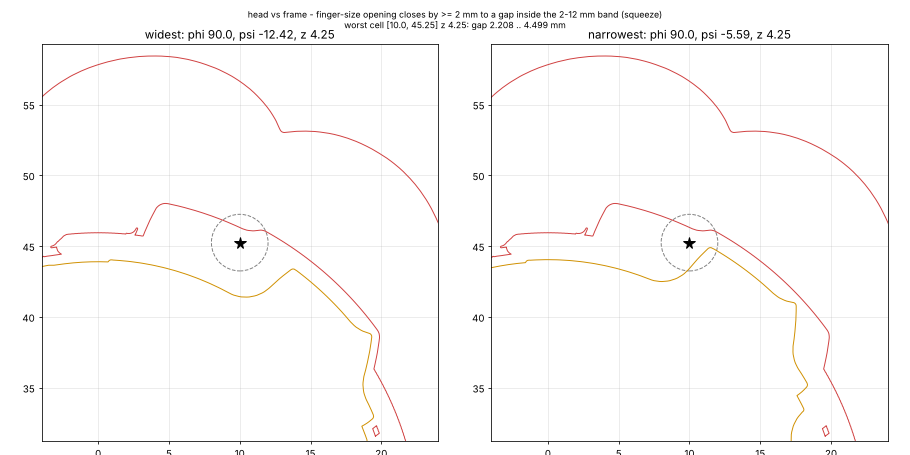
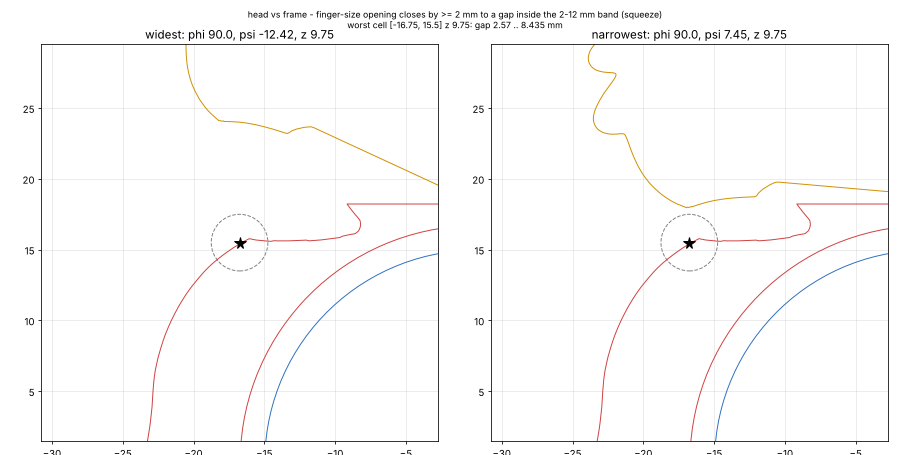
r7: back-rib web (fill-in arcs + spokes about P and O: every bridge strand of the head's and wheel's first layers crosses a rib within 5 mm), automatic bridging for every part of the sculpt kitty; checkers use the same helper; rib tops ignore hairlines (from the round-7 bridging agent's validated pr
Claude-Session: https://claude.ai/code/session_016pLnQT8v177AB1mgd4kLy3

diff --git a/fidget-toy/purrbobble/sculpt.py b/fidget-toy/purrbobble/sculpt.py
@@ -451,6 +451,84 @@ def seams(sk, p) -> dict:
             "pad_low_top": max(sk.pad_low_top, sk.leg_low_top + zl + gt + 0.05)}
 
 
+WHEEL_SPOKES = 12          # spokes about O under the wheel (strands over the teeth's first layer: <= 4.7 mm per run)
+
+
+def back_ribs2d(p, S, band2d: CrossSection, low2d_cav: CrossSection, spokes: bool = True) -> CrossSection:
+    """The frame's back ribs as built (z_bp .. z_bp + rib_h; design frame; the checkers call this too).  Ribs_back2d
+    is clipped to the low cavity shrunk 0.3 and what the clip leaves narrower than 0.9 rib_w is dropped.  The head
+    band's underside floats over the rib tops at the print pose and must lie within the float reach (pitch - rib_w)
+    / 2 of one everywhere (V9 rib float, <= 1.90): where the clip dropped an arc (the arc that runs along the cavity's
+    outer edge at the band's tip, r 19.5 about P, is cut to a 0.5 sliver there) or shortened one, fill-in arcs about
+    P are added at full width inside the clip, as core2d's (whose fill-in serves the classic band, not this one).
+    Radial spokes about P join the arcs into a web (spokes=True): the slicer prints the band's first layer as
+    straight bridge strands, one direction per region, and a straight strand runs tangent to the arcs somewhere
+    whatever its direction - 15-21 mm over no rib on this band, whose always-covered face part lies above P (the
+    classic band, legs and hub only, crossed the arcs at 180 deg).  The spokes, every `step` (the tangential pitch at
+    the band's farthest point <= the rib pitch: every other one from the hub ring, the rest from where the hub
+    ones' pitch passes the rib pitch), cut every strand to about the rib pitch (<= 5 mm) in any direction."""
+    P, O = tuple(p.P), (0.0, 0.0)
+    clip = g2.grow(low2d_cav, -0.3, 0.01)
+    rib2d = g2.drop_small(g2.opening(g2.intersect(S["ribs_back2d"], clip), 0.9 * p.rib_w, 0.005), 0.1)
+    # (fill-in arcs keep core2d's rib rules too: 0.3 inside the swept band, off the wheel's disc (its own rings
+    # there) and the posts' roots, 0.3 clear of the stop pads)
+    post_clear = g2.union([g2.circle(c, p.post_r + p.post_root_fillet + p.rib_post_clear, 0.01) for c in (O, P)])
+    fclip = g2.difference(g2.intersect(clip, g2.grow(S["swept_headband2d_exact"], -0.3, 0.01)),
+                          g2.circle(O, p.fill_wheel_r, 0.01), post_clear, g2.grow(S["stoppads2d"], 0.3, 0.01))
+    reach = (p.rib_back_pitch - p.rib_w) / 2.0 + 0.02     # 1.87, as core2d's (V9 allows 1.90)
+    under = g2.difference(g2.rot_about(band2d, p.psi_print, P), g2.circle(P, p.bore_r + 0.05, 0.01))
+    for _ in range(4):
+        unc = g2.drop_small(g2.opening(g2.difference(under, g2.grow(rib2d, reach, 0.005)), 0.05, 0.005), 0.005)
+        if unc.is_empty():
+            break
+        segs = []
+        for q in g2.pieces(unc):
+            pts = np.vstack([np.asarray(c, float) for c in q.to_polygons()])
+            r0 = float(np.mean(np.hypot(pts[:, 0] - P[0], pts[:, 1] - P[1])))
+            # (a local arc: the zone that part of the band sweeps, not a whole ring)
+            loc = swept(g2.grow(g2.rot_about(q, -p.psi_print, P), 1.5, 0.01), P, p.psi_b, p.n_sweep, allowance=0.0)
+            for dr in (0.0, -0.3, 0.3, -0.6, 0.6, -0.9, 0.9, -1.2, -1.5):
+                r = r0 + dr
+                seg = g2.intersect(g2.difference(g2.circle(P, r + p.rib_w / 2, g2.TOL_DECO),
+                                                 g2.circle(P, r - p.rib_w / 2, g2.TOL_DECO)), loc, fclip)
+                seg = g2.drop_small(g2.opening(seg, 0.95 * p.rib_w, 0.005), 0.3)     # full-width rib only
+                if not seg.is_empty() and g2.difference(q, g2.grow(seg, reach + 0.03, 0.01)).area() < 1e-3:
+                    segs.append(seg)
+                    break
+        if not segs:
+            break
+        # (closed 0.3 around the new arcs: one next to an existing arc leaves no hairline slit between them)
+        add = g2.union(segs)
+        rib2d = g2.union([rib2d, add, g2.intersect(g2.closing(g2.union([rib2d, add]), 0.3, 0.005),
+                                                   g2.grow(add, 0.6, 0.005), clip)])
+    if spokes:
+        pts = np.vstack([np.asarray(c, float) for c in band2d.to_polygons()])
+        r_max = float(np.hypot(pts[:, 0] - P[0], pts[:, 1] - P[1]).max())
+        n = 2 * int(math.ceil(math.pi * r_max / p.rib_back_pitch))          # (even: alternate hub / outer spokes)
+        step = 2.0 * math.pi / n
+        r_split = p.rib_back_pitch / (2.0 * step) - p.rib_w / 2.0
+        bars = []
+        for k in range(n):
+            u = np.array([math.cos(k * step), math.sin(k * step)])
+            w = np.array([-u[1], u[0]]) * (p.rib_w / 2.0)
+            a0 = np.asarray(P) + u * (p.rib_back_r0 if k % 2 == 0 else r_split)
+            a1 = np.asarray(P) + u * (r_max + 5.0)
+            bars.append(g2.poly([a0 - w, a1 - w, a1 + w, a0 + w]))
+        # (and under the wheel: WHEEL_SPOKES about O from the inner ring to the outer one, inside the rings' clip -
+        # the teeth's first layer otherwise runs up to 9.8 mm between the rings about O)
+        r_in, r_out = min(p.rib_rings_O), max(p.rib_rings_O)
+        for k in range(WHEEL_SPOKES):
+            t = 2.0 * math.pi * (k + 0.5) / WHEEL_SPOKES
+            u = np.array([math.cos(t), math.sin(t)])
+            w = np.array([-u[1], u[0]]) * (p.rib_w / 2.0)
+            bars.append(g2.intersect(g2.poly([u * r_in - w, u * r_out - w, u * r_out + w, u * r_in + w]),
+                                     g2.difference(g2.circle(O, p.rib_rings_clip, 0.01), post_clear)))
+        sp = g2.drop_small(g2.opening(g2.union([g2.intersect(g2.union(bars[:n]), fclip)] + bars[n:]),
+                                      0.95 * p.rib_w, 0.005), 0.3)
+        rib2d = g2.union([rib2d, sp])
+    return rib2d
+
+
 def skid_ring_r(sk, p) -> list[float]:
     """Radii of the wheel's skid rings on the umbrella top (the same in every variant; the checkers read them too)."""
     return [float(r) for r in np.arange(sk.cap_r + sk.cap_gap + 1.2, sk.ring_r_max + 1e-6, sk.ring_pitch)]
@@ -578,11 +656,11 @@ def integrate(M, verbose: bool = False) -> dict:
     # ---------------- head
     # under the band's sweep and the wheel the frame is cut down to the plate top, with the back ribs inside
     # (the band's own cavity is the first slab of its envelope below, which starts at the plate top); ribs clipped
-    # to a sliver at the cavity edge are dropped
+    # to a sliver at the cavity edge are dropped; fill-in arcs keep the band's underside within the float reach and
+    # spokes cut every bridge strand of its first layer to <= the rib pitch (back_ribs2d)
     sw_band = g2.grow(swept(band2d, P, p.psi_b, p.n_sweep, allowance=0.05), gxy, 0.01)
     low2d_cav = g2.union([sw_band, g2.circle(O, p.wheel_ex_r, 0.01)])
-    rib2d = g2.intersect(S["ribs_back2d"], g2.grow(low2d_cav, -0.3, 0.01))
-    rib2d = g2.drop_small(g2.opening(rib2d, 0.9 * p.rib_w, 0.005), 0.1)       # (opening takes a width)
+    rib2d = back_ribs2d(p, S, band2d, low2d_cav)
     ribs_back = ext(rib2d, p.z_bp - EPS, p.z_bp + p.rib_h)
     # legs lowered where their sweep passes under sculpt thinner than cover_min (outside the head and the ball)
     foot = K.slice(0.3)

diff --git a/fidget-toy/verification/v_printability.py b/fidget-toy/verification/v_printability.py
@@ -49,7 +49,7 @@ SLICER  PrusaSlicer CLI (0.2 layers, 0.4 nozzle, PLA, 3 perimeters, 5/5 solid la
 
 Sculpt skins (purrbobble/sculpt.py: frame and head cut from a sculpted mesh, no roof / fill walls / face layers /
 paws / rib fields in the bodies, although the sections still hold them) are judged on what is built instead:
-    * zones: the built back ribs (clipped to the low cavity), the wheel's skid rings (designed 0.8), 'sculpt' for the
+    * zones: the built back ribs (sculpt.back_ribs2d), the wheel's skid rings (designed 0.8), 'sculpt' for the
       sculpted surface; a thin XY piece within 0.6 of the >= 1.2 core of the same body one layer up or down is the
       tapering 'edge' of a sculpted wall (warn), one that stays thin in both neighbouring layers is a 'wall' (fail); a
       thin horizontal shell sampled >= 1.0 inside its section is a 'plate' (fail);
@@ -248,7 +248,8 @@ def sculpt_geom(M) -> dict:
     do not carry it; design frame):
     band2d     the head band's plan (hub, legs, fingers and the always-covered face part);
     low2d_cav  the cavity cut down to the plate top under the band's sweep and the wheel;
-    ribs_back  the back ribs as built (Ribs_back2d clipped to low2d_cav shrunk 0.3);
+    ribs_back  the back ribs as built (sculpt.back_ribs2d: Ribs_back2d clipped to low2d_cav shrunk 0.3, fill-in
+               arcs, spokes);
     rings      the skid rings on the wheel's umbrella top (annuli rib_w wide)."""
     key = id(M)
     if key not in _SCULPT_GEOM:
@@ -263,21 +264,22 @@ def sculpt_geom(M) -> dict:
             C = g2.intersect(C, g2.rot_about(HB, float(a_), P))
         C = g2.grow(C, -gxy, 0.01)
         mech2d = g2.union([S["hub2d"], S["legs2d"], S["fingers2d"]])
-        band2d = g2.intersect(S["headband2d"], g2.union([g2.grow(C, -0.5, 0.01), g2.grow(mech2d, 0.05, 0.01)]))
+        Cin = C                                   # (as integrate(): C's part that stays inside C at every pose)
+        for a_ in np.linspace(-p.psi_b, p.psi_b, 41):
+            Cin = g2.intersect(Cin, g2.rot_about(C, float(a_), P))
+        band2d = g2.intersect(S["headband2d"], g2.union([g2.grow(Cin, -0.5, 0.01), g2.grow(mech2d, 0.05, 0.01)]))
         band2d = g2.clean(g2.opening(band2d, 0.5, 0.005), "solid")
         band2d = max(g2.pieces(band2d), key=lambda q: q.area())
         sw_band = g2.grow(swept(band2d, P, p.psi_b, p.n_sweep, allowance=0.05), gxy, 0.01)
         low2d_cav = g2.union([sw_band, g2.circle(O, p.wheel_ex_r, 0.01)])
-        from purrbobble.sculpt import skid_ring_r
+        from purrbobble.sculpt import back_ribs2d, skid_ring_r
         ring_r = skid_ring_r(sk, p)
         rings = [g2.difference(g2.circle(O, r + p.rib_w / 2, 0.01), g2.circle(O, r - p.rib_w / 2, 0.01))
                  for r in ring_r]
         _SCULPT_GEOM[key] = {"band2d": band2d, "low2d_cav": low2d_cav,
-                             # (as integrate(): clipped to the cavity, then what the clip leaves narrower than
-                             # 0.9 rib_w dropped)
-                             "ribs_back": g2.drop_small(g2.opening(g2.intersect(S["ribs_back2d"],
-                                                                               g2.grow(low2d_cav, -0.3, 0.01)),
-                                                                   0.9 * p.rib_w, 0.005), 0.1),
+                             # (as integrate(): clipped to the cavity, what the clip leaves narrower than
+                             # 0.9 rib_w dropped, plus the fill-in arcs and the spoke web: one helper)
+                             "ribs_back": back_ribs2d(p, S, band2d, low2d_cav),
                              "rings": compose(rings), "ring_r": ring_r}
     return _SCULPT_GEOM[key]
 
@@ -1735,8 +1737,10 @@ def _classify_piece(M, body, Lz, q, below, bodies, allt, owner, names, allowance
 
 
 def rib_tops(bodies, body, z):
-    """Top faces of the OTHER bodies at height z (material just below z, none just above): the skid-rib tops."""
-    return compose([bodies[o].slice(z - 2e-3) - bodies[o].slice(z + 2e-3) for o in bodies if o != body])
+    """Top faces of the OTHER bodies at height z (material just below z, none just above): the skid-rib tops.
+    Hairlines narrower than 0.1 are not top faces (float32 vertices make a vertical wall - e.g. the band cavity's
+    outer wall - lean by ~1e-4: the slice difference leaves a hairline along it, which supports nothing)."""
+    return compose([opening(bodies[o].slice(z - 2e-3) - bodies[o].slice(z + 2e-3), 0.1) for o in bodies if o != body])
 
 
 # ---------------------------------------------------------------------------------------------- V9, sculpt skins
@@ -2200,8 +2204,9 @@ def slicer_check(M, bodies: dict, stl_path: Path, mf_path: Path | None, workdir:
     exe = shutil.which("prusa-slicer") or shutil.which("PrusaSlicer")
     opts = list(SLICER_OPTS)
     if is_sculpt(M):
-        # (sculpt skins: no crown roof; the frame covers bridge in every direction, so the slicer picks it, as the
-        # 3MF's frame part says: assemble.part_settings)
+        # (sculpt skins: no crown roof; the frame covers bridge in every direction, so the slicer picks it, and the
+        # head's and wheel's first layers float over a rib web that every strand direction crosses: automatic for
+        # every part, as the 3MF's parts say - assemble.part_settings)
         opts[opts.index("--bridge-angle") + 1] = "0"
     out = {"settings": " ".join(opts), "runs": {}}
     if exe is None:

diff --git a/fidget-toy/purrbobble/assemble.py b/fidget-toy/purrbobble/assemble.py
@@ -32,9 +32,12 @@ PART_SETTINGS = {
 def part_settings(skin) -> dict:
     """PART_SETTINGS for a skin.  A sculpt skin has no crown roof: its bridges are the frame covers over the legs
     and the band, running every which way, so the frame keeps PrusaSlicer's automatic bridge direction (a fixed
-    180 deg hung the covers' bridge lines off their free edges at the wheel cavity)."""
+    180 deg hung the covers' bridge lines off their free edges at the wheel cavity; 45 / 90 / 135 deg fail other
+    covers).  The head's and the wheel's first layers float over a web of back ribs (arcs and spokes about P, rings
+    and spokes about O: a straight strand in any direction crosses one every <= 5 mm), so they need no fixed angle:
+    every part says 0 (= automatic) explicitly, so that a profile's fixed bridging angle does not apply to them."""
     if hasattr(skin, "sculpt"):
-        return dict(PART_SETTINGS, frame=dict(PART_SETTINGS["frame"], bridge_angle="0"))
+        return {k: dict(v, bridge_angle="0") for k, v in PART_SETTINGS.items()}
     return PART_SETTINGS
 
 

diff --git a/fidget-toy/purrbobble/README.md b/fidget-toy/purrbobble/README.md
@@ -140,6 +140,13 @@ and `sculpt.integrate(M)` cuts the sculpt into the three bodies around the uncha
   head band (hub, collar, legs, pallet fingers; legs under thin cushion lowered to `leg_low_top`);
 * **frame** = the rest of the sculpt minus the swept head / wheel envelopes, plus back ribs, posts and stop pads.
 
+The back ribs (`sculpt.back_ribs2d`; the checkers call it too) are core2d's arcs about P and rings about O clipped to
+the plate-level cavity, fill-in arcs where the clip dropped one (every point of the band's underside at the print
+pose within 1.87 of a rib top), and radial spokes about P and O that join them into a web: the head's and the
+wheel's first layers float 0.40 over it as bridge strands, and a straight strand in any direction crosses a rib
+every <= 5 mm (4.5-4.7 in PrusaSlicer's toolpaths at 0, 90 and 180 deg), so the sculpt kitty's 3MF keeps
+PrusaSlicer's automatic bridge direction on every part (`assemble.part_settings`).
+
 `sculpt.seams(skin, params)` returns the effective clearances (gap under a floating body grows with z_lift, the
 seam over it stays gap_z; head floors keep `floor_rest` more), `sculpt.skid_ring_r(skin, params)` the skid-ring
 radii; the checkers read both. The integration takes 5-10 min per variant, so its bodies are cached in
